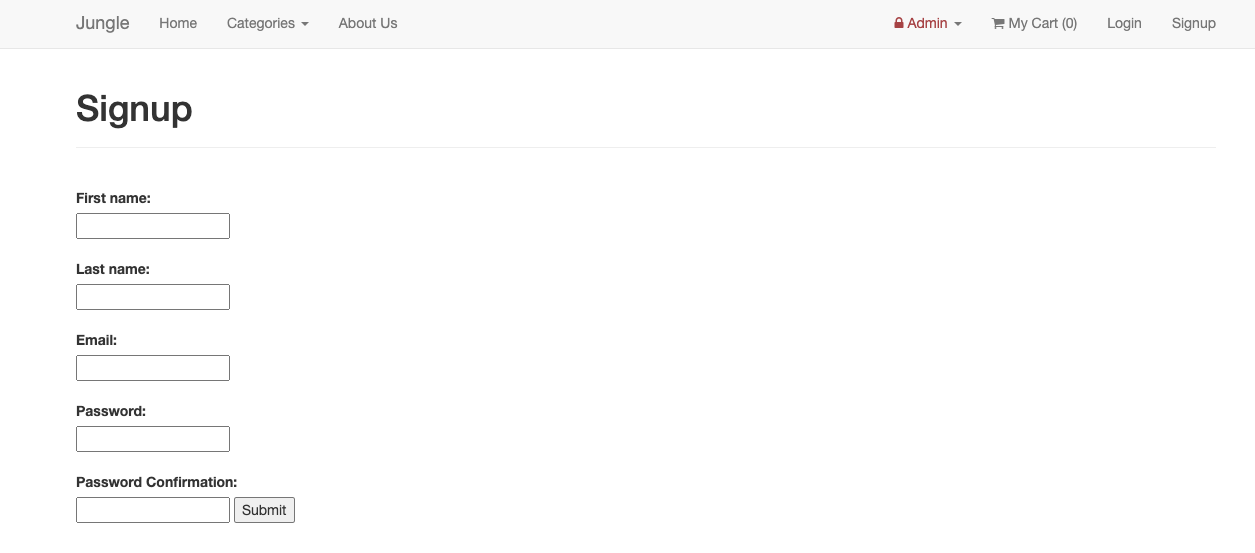
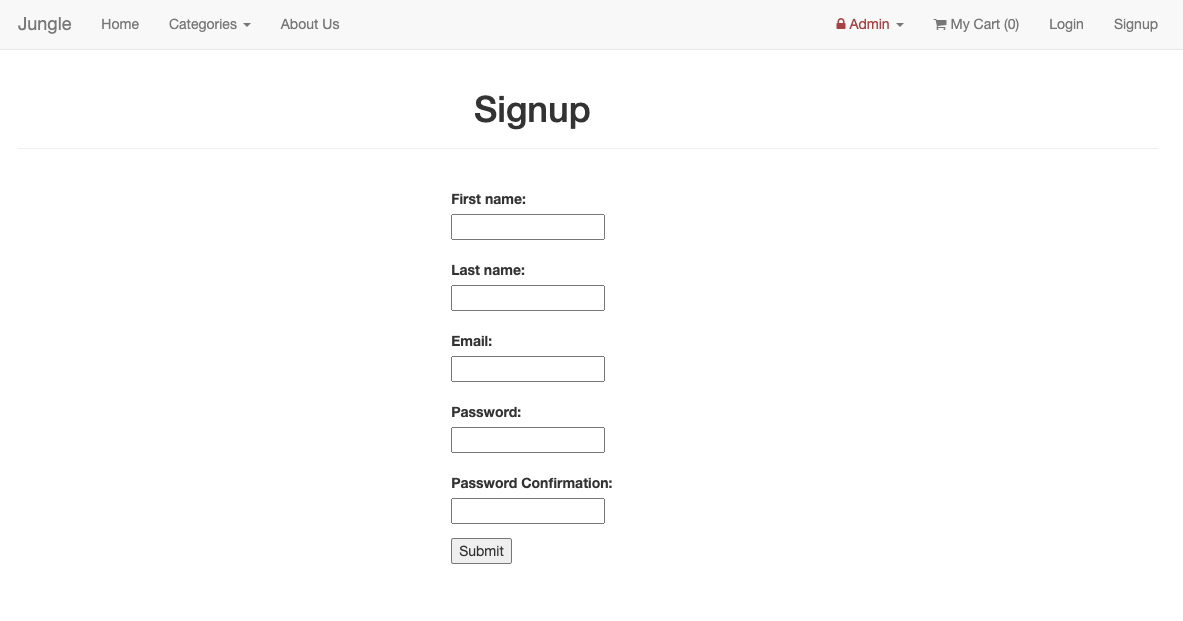
Adjust CSS login and Add new Signup-Page.png

diff --git a/app/assets/stylesheets/products.scss b/app/assets/stylesheets/products.scss
@@ -88,8 +88,22 @@ main section.products-show {
 .config-login{
   display: flex;
   margin-top: 14px;
-  
-  
+}
+
+.login-style {
+  padding: 0 40%;
+}
+
+.login-style2 {
+  padding: 0 38%;
+}
+
+.login-style3 {
+  margin-bottom: 1em;
+}
+
+.space-lines {
+  margin: 1em;
 }
 
 
